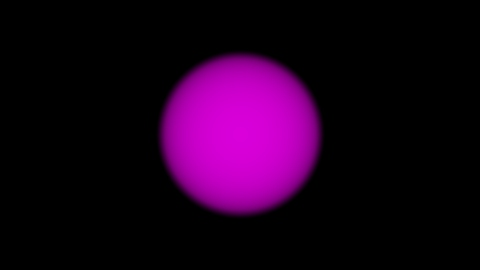
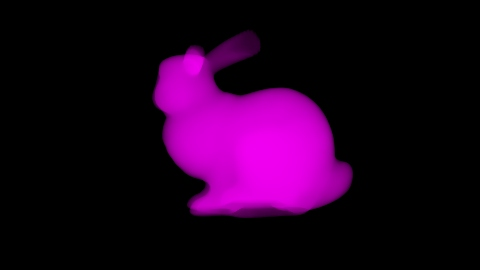
Added bunny back; forgot openvdb returns positive outside; works now

Changed region(s): [[0.3125, 0.1185, 0.75, 0.8296]]

diff --git a/base/Scene.C b/base/Scene.C
@@ -20,25 +20,25 @@ void Scene::init()
     // Setup camera
     std::cout << "Setting up camera. . ." << std::endl;
     
-    float zdist = 5;
+    float zdist = 10;
     this->setupCamera(zdist);
     
     std::cout << "Done!" << std::endl;
 
+    // Define mesh objects
+    MeshSP objMesh = mesh();
+    objMesh->loadObj("models/bunnyFixed/bunny_fixed.obj");
+
     // Define grids to store volumes and colors
     std::cout << "Creating Grids. . ." << std::endl;
-    
-    float sphereGridDim = 10;
-    float sphereVxSize  = 0.1;
-    float sphereDg      = -1000;
-    openvdb::CoordBBox sphereBBox = openvdb::CoordBBox(openvdb::Coord(-sphereGridDim, -sphereGridDim, -sphereGridDim), 
-                                                       openvdb::Coord( sphereGridDim,  sphereGridDim,  sphereGridDim));
-    VGSP<openvdb::FloatGrid> sphereGrid = grid<openvdb::FloatGrid>();
-    sphereGrid->init(sphereBBox, 
-                     sphereVxSize, 
-                     sphereDg);
-    
-    float colorGridDim     = 10;
+
+    float objVxSize = 0.1;
+    VGSP<openvdb::FloatGrid> objGrid = grid<openvdb::FloatGrid>();
+    objGrid->initLevelSet(createLevelSet(objMesh, objVxSize));
+
+    std::cout << objGrid->getBBox() << std::endl;
+
+    float colorGridDim     = 30;
     float colorVxSize      = 0.1;
     openvdb::Vec3s colorDg = openvdb::Vec3s(0,0,0);
     openvdb::CoordBBox colorBBox = openvdb::CoordBBox(openvdb::Coord(-colorGridDim, -colorGridDim, -colorGridDim),
@@ -53,7 +53,6 @@ void Scene::init()
     // Define volumes in scene
     std::cout << "Creating volumes . . ." << std::endl;
     
-    VSP<float> Sphere = sphere(1.0f);
     VSP<openvdb::Vec3s> material = constant(openvdb::Vec3s(1.0f, 0.0f, 1.0f));
 
     std::cout << "Done!" << std::endl;
@@ -61,7 +60,6 @@ void Scene::init()
     // Stamp volumes into grids
     std::cout << "Stamping . . ." << std::endl;
 
-    sphereGrid->stamp(Sphere);
     colorGrid->stamp(material);
 
     std::cout << "Done!" << std::endl;
@@ -69,14 +67,15 @@ void Scene::init()
     std::cout << "Finalizing scene. . ." << std::endl;
 
     // Create gridded fields
-    VSP<float> griddedSphere         = gridField<openvdb::FloatGrid, float>(sphereGrid);
+    VSP<float> griddedObj = gridField<openvdb::FloatGrid, float>(objGrid);
+    griddedObj = -griddedObj;
     VSP<openvdb::Vec3s> griddedColor = gridField<openvdb::Vec3SGrid, openvdb::Vec3s>(colorGrid);
 
     // Define where color is and is not
-    VSP<Color> output = toColor(griddedColor) * mask(griddedSphere);
+    VSP<Color> output = toColor(griddedColor) * mask(griddedObj);
 
     // Set member variables
-    _volumes.push_back(clamp(griddedSphere * constant(10.0f), 0.0f, 1.0f));
+    _volumes.push_back(clamp(griddedObj * constant(100.0f), 0.0f, 1.0f));
     _materials.push_back(output);
 
     std::cout << "Done!" << std::endl;
